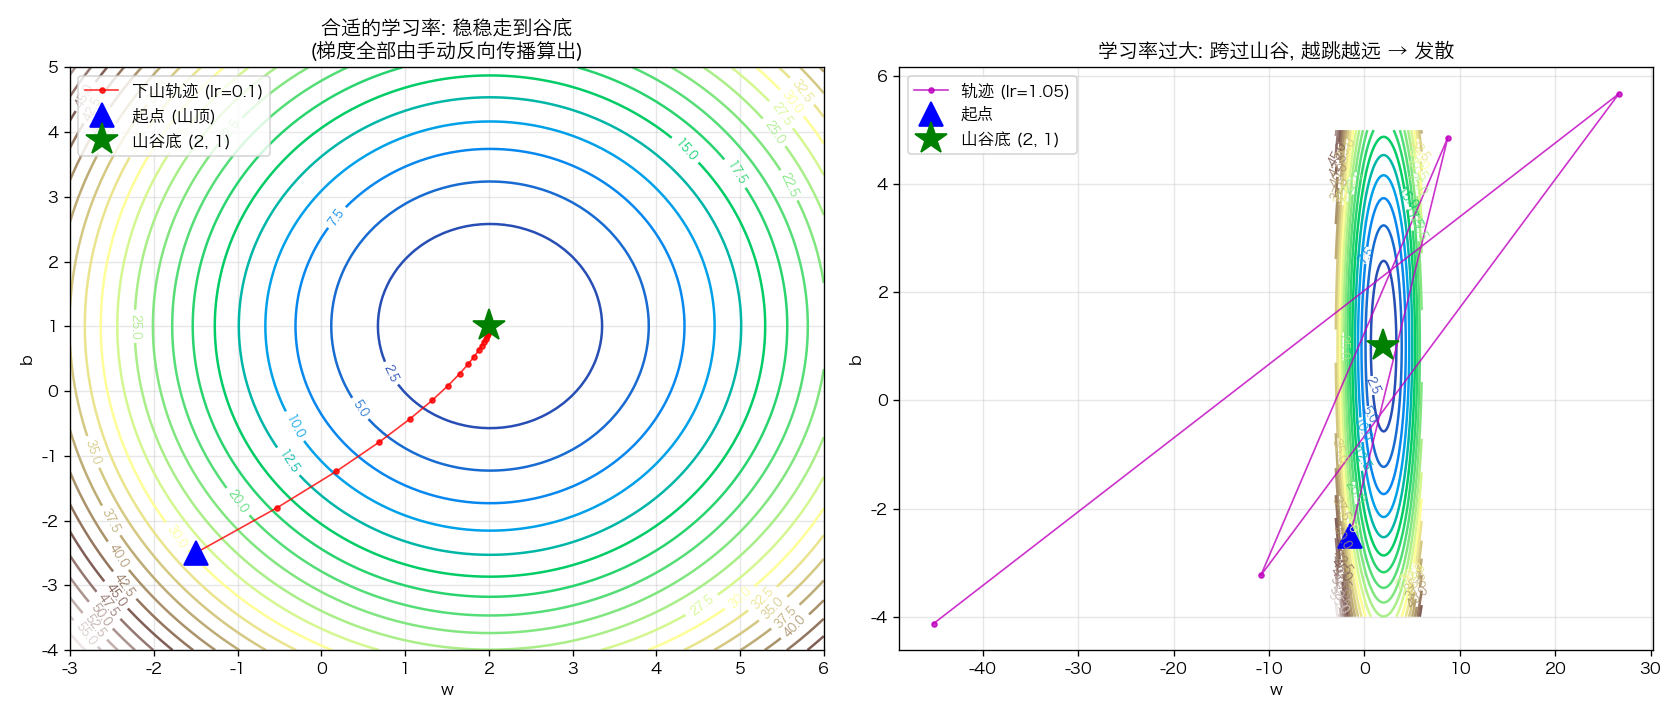
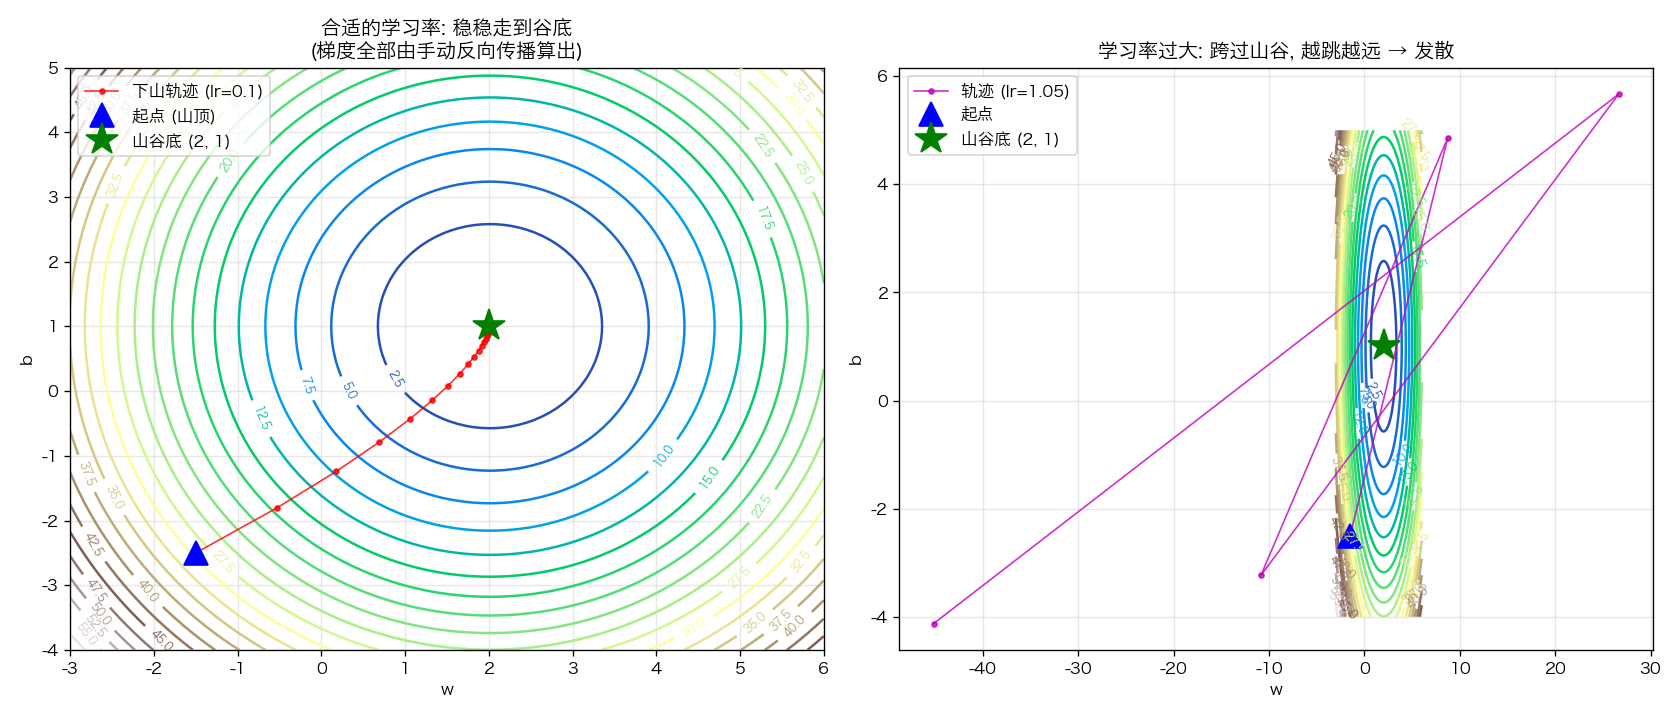
update computation-graph

diff --git a/exercises/gradient-loss/03_minimize_loss_is_downhill_manual_backprop.py b/exercises/gradient-loss/03_minimize_loss_is_downhill_manual_backprop.py
@@ -13,11 +13,11 @@
 
     forward                                  backward (链式法则)
     --------                                 -------------------
-    (1) y_pred[i] = w · x[i] + b             ← dL/dw   = Σ dL/dy_pred[i] · x[i]
-                                             ← dL/db   = Σ dL/dy_pred[i] · 1
-    (2) r[i]      = y_pred[i] - y[i]         ← dL/dy_pred[i] = dL/dr[i] · 1
-    (3) sq[i]     = r[i]²                    ← dL/dr[i]      = dL/dsq[i] · 2·r[i]
-    (4) loss      = (1/N) · Σ sq[i]          ← dL/dsq[i]     = 1/N
+    (1) y_pred[i] = w · x[i] + b             ← dL/dw   = Σ ( dL/d(y_pred[i]) ·  d(y_pred[i])/d(w) ) = Σ dL/dy_pred[i] · x[i]
+                                             ← dL/d(b)   = Σ ( dL/d(y_pred[i]) ·  d(y_pred[i])/d(b) ) = Σ dL/d(y_pred[i]) · 1
+    (2) r[i]      = y_pred[i] - y[i]         ← dL/d(y_pred[i]) = dL/d(r[i]) · d(r[i])/d(y_pred[i]) = dL/d(r[i]) · 1
+    (3) sq[i]     = r[i]²                    ← dL/d(r[i])      = dL/d(sq[i]) · d(sp[i])/d(r[i]) = dL/dsq[i] · 2·r[i]
+    (4) loss      = (1/N) · Σ sq[i]          ← dL/d(sq[i])     = 1/N
 
 把 (4)→(3)→(2)→(1) 串起来化简, 就得到我们之前那两条手算公式:
     ∂loss/∂w = (2/N) · Σ x[i] · r[i]  = 2 · mean(x · r)
@@ -36,6 +36,104 @@ plt.rcParams["font.sans-serif"] = ["PingFang SC", "Hiragino Sans GB", "Arial Uni
 plt.rcParams["axes.unicode_minus"] = False
 
 
+def plot_computation_graph(savepath="03_computation_graph_forward_backward.png"):
+    """画 forward/backward 计算图: 上排蓝色 = 前向; 下排红色 = 反向 (链式法则)。
+    两排节点一一对应: 上面的 y_pred 对应下面的 dL/dy_pred, 一目了然。
+    """
+    fig, ax = plt.subplots(figsize=(16, 8.5))
+    ax.set_xlim(0, 16)
+    ax.set_ylim(0, 8.5)
+    ax.axis("off")
+
+    BLUE = "#1f77b4"
+    RED = "#d62728"
+
+    # ---- 上排 forward 节点 (y=5.8) ----
+    y_f = 5.8
+    fwd_nodes = [
+        (1.5,  "w, b",   "lightblue"),
+        (5,    "y_pred", "white"),
+        (8,    "r",      "white"),
+        (11,   "sq",     "white"),
+        (14,   "loss",   "lightgreen"),
+    ]
+    fwd_edges = [  # (x1, x2, 操作说明)
+        (1.5, 5,    "(1) y_pred = w·x + b"),
+        (5,   8,    "(2) r = y_pred - y"),
+        (8,   11,   "(3) sq = r·r"),
+        (11,  14,   "(4) loss = mean(sq)"),
+    ]
+
+    # ---- 下排 backward 节点 (y=2.2), 与上排一一对应 ----
+    y_b = 2.2
+    bwd_nodes = [
+        (1.5,  "dL/dw\ndL/db",  "lightcoral"),
+        (5,    "dL/dy_pred",    "mistyrose"),
+        (8,    "dL/dr",         "mistyrose"),
+        (11,   "dL/dsq",        "mistyrose"),
+        (14,   "dL/dloss = 1",  "lightyellow"),
+    ]
+    bwd_edges = [  # (x1, x2, 链式法则的局部导数)
+        (14, 11, "· 1/N"),
+        (11, 8,  "· 2·r"),
+        (8,  5,  "· 1"),
+        (5,  1.5, "对 w: · x[i] 后求和\n对 b: · 1     后求和"),
+    ]
+
+    def draw_node(x, y, label, color):
+        n_lines = label.count("\n") + 1
+        h = 0.55 + 0.32 * (n_lines - 1)
+        ax.add_patch(plt.Rectangle((x - 1, y - h / 2), 2, h,
+                                   facecolor=color, edgecolor="black", lw=1.5, zorder=3))
+        ax.text(x, y, label, ha="center", va="center",
+                fontsize=11, fontweight="bold", zorder=4)
+
+    for x, lbl, col in fwd_nodes:
+        draw_node(x, y_f, lbl, col)
+    for x, lbl, col in bwd_nodes:
+        draw_node(x, y_b, lbl, col)
+
+    # forward 箭头: 向右, 蓝色
+    for x1, x2, lbl in fwd_edges:
+        ax.annotate("", xy=(x2 - 1.05, y_f), xytext=(x1 + 1.05, y_f),
+                    arrowprops=dict(arrowstyle="->", color=BLUE, lw=2.5))
+        ax.text((x1 + x2) / 2, y_f + 0.55, lbl, color=BLUE, fontsize=10.5,
+                ha="center", fontweight="bold",
+                bbox=dict(boxstyle="round,pad=0.25", facecolor="white", edgecolor=BLUE))
+
+    # backward 箭头: 向左, 红色
+    for x1, x2, lbl in bwd_edges:
+        ax.annotate("", xy=(x2 + 1.05, y_b), xytext=(x1 - 1.05, y_b),
+                    arrowprops=dict(arrowstyle="->", color=RED, lw=2.5))
+        ax.text((x1 + x2) / 2, y_b - 0.75, lbl, color=RED, fontsize=10,
+                ha="center",
+                bbox=dict(boxstyle="round,pad=0.25", facecolor="white", edgecolor=RED))
+
+    # forward → backward 的"种子": loss 这一列向下接 dL/dloss=1
+    ax.annotate("", xy=(14, y_b + 0.45), xytext=(14, y_f - 0.45),
+                arrowprops=dict(arrowstyle="->", color="black", lw=2, linestyle="dashed"))
+    ax.text(14.7, (y_f + y_b) / 2, "种子\ndL/dloss = 1",
+            fontsize=10, va="center", ha="left")
+
+    # 上下层的"对照虚线" — 提示同一个变量, 前向值 vs 反向梯度
+    for (x, _, _), (xb, _, _) in zip(fwd_nodes, bwd_nodes):
+        if x == 14:  # loss 这列已经画过实线了
+            continue
+        ax.plot([x, xb], [y_f - 0.45, y_b + 0.45], color="gray",
+                lw=0.8, linestyle=":", alpha=0.5, zorder=1)
+
+    # 标题 + 说明
+    ax.text(8, 7.9, "Forward (前向): 顺着蓝箭头, 从 (w, b) 一路算到 loss",
+            fontsize=14, ha="center", color=BLUE, fontweight="bold")
+    ax.text(8, 0.5,
+            "Backward (反向): 从 dL/dloss=1 出发, 沿红箭头依次乘上每一步的局部导数, 把梯度传回每个变量",
+            fontsize=12, ha="center", color=RED, fontweight="bold")
+
+    plt.tight_layout()
+    plt.savefig(savepath, dpi=120, bbox_inches="tight")
+    print(f"计算图已保存到 {savepath}")
+
+
 def forward(w, b, x_data, y_data):
     """前向: 一路算到 loss, 同时把中间量 (y_pred, r) 记下来, 反向时要用。"""
     y_pred = w * x_data + b           # (1)
@@ -52,13 +150,19 @@ def backward(cache, x_data):
     N = x_data.numel()
 
     # (4) loss = mean(sq)         →  dL/dsq[i] = 1/N
-    dsq = torch.full_like(r, 1.0 / N)
+    dsq = torch.full_like(r, 1.0 / N) # full_like 创建一个与已有 Tensor 形状相同的新 Tensor，并用指定值填充。
 
     # (3) sq[i] = r[i]²           →  dL/dr[i] = dL/dsq[i] · 2·r[i]
     dr = dsq * 2.0 * r
 
     # (2) r[i] = y_pred[i] - y[i] →  dL/dy_pred[i] = dL/dr[i] · 1
     dy_pred = dr
+
+# 把 (4)→(3)→(2)→(1) 串起来化简, 就得到我们之前那两条手算公式:
+#     ∂loss/∂w = (2/N) · Σ x[i] · r[i]  = 2 · mean(x · r)
+#     ∂loss/∂b = (2/N) · Σ      r[i]    = 2 · mean(r)
+# 其中 r = y_pred - y_data 是残差。
+
 
     # (1) y_pred[i] = w·x[i] + b  →  对 w 累加 x[i], 对 b 累加 1
     dw = (dy_pred * x_data).sum()
@@ -70,6 +174,11 @@ def main():
     torch.manual_seed(0)
     x_data = torch.linspace(-2, 2, 50)
     y_data = 2 * x_data + 1 + 0.1 * torch.randn_like(x_data)
+
+    # =========================================================
+    # 0a. 先把 forward / backward 的计算图画出来, 对照后面的代码看
+    # =========================================================
+    plot_computation_graph()
 
     # =========================================================
     # 0. 先验证一下: 手算 backward 和 autograd 的结果是否一致
